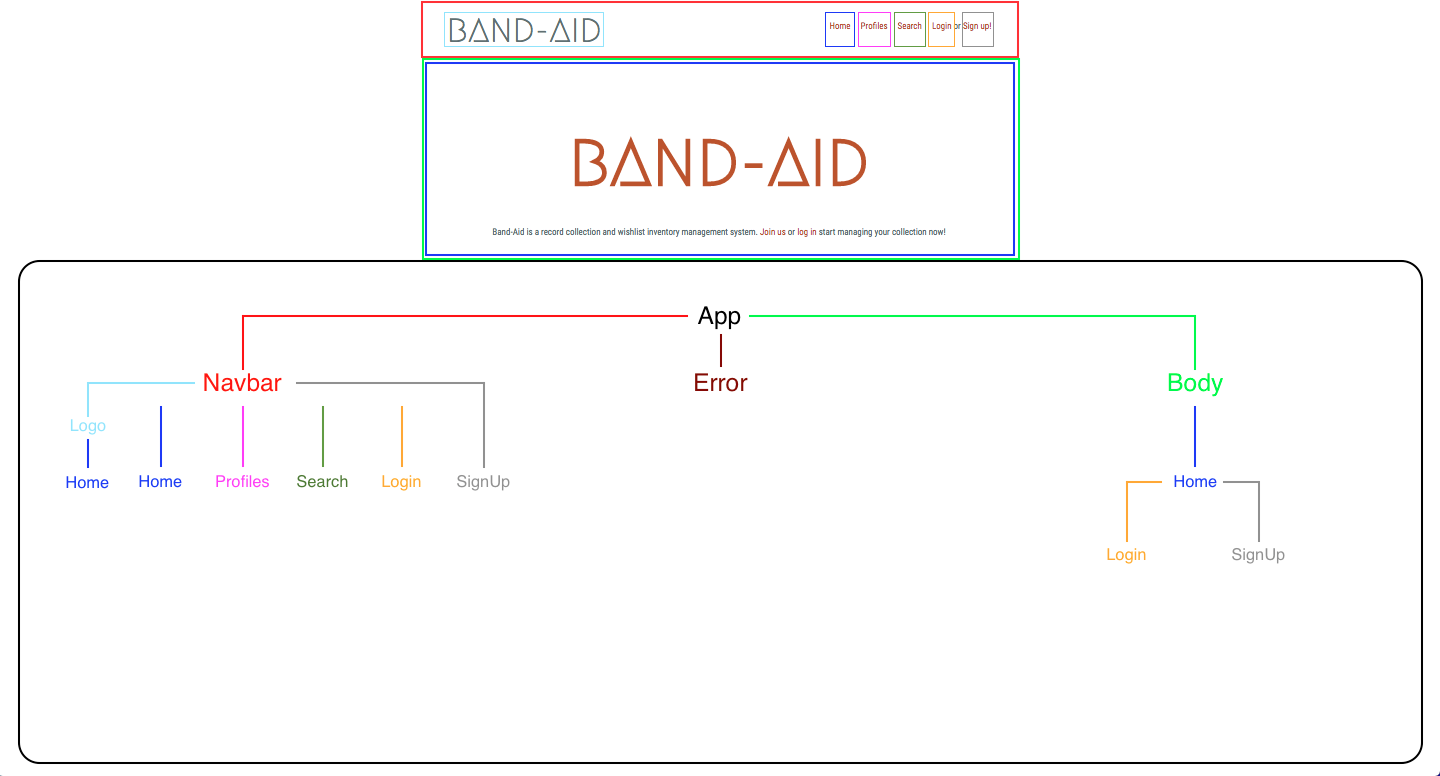
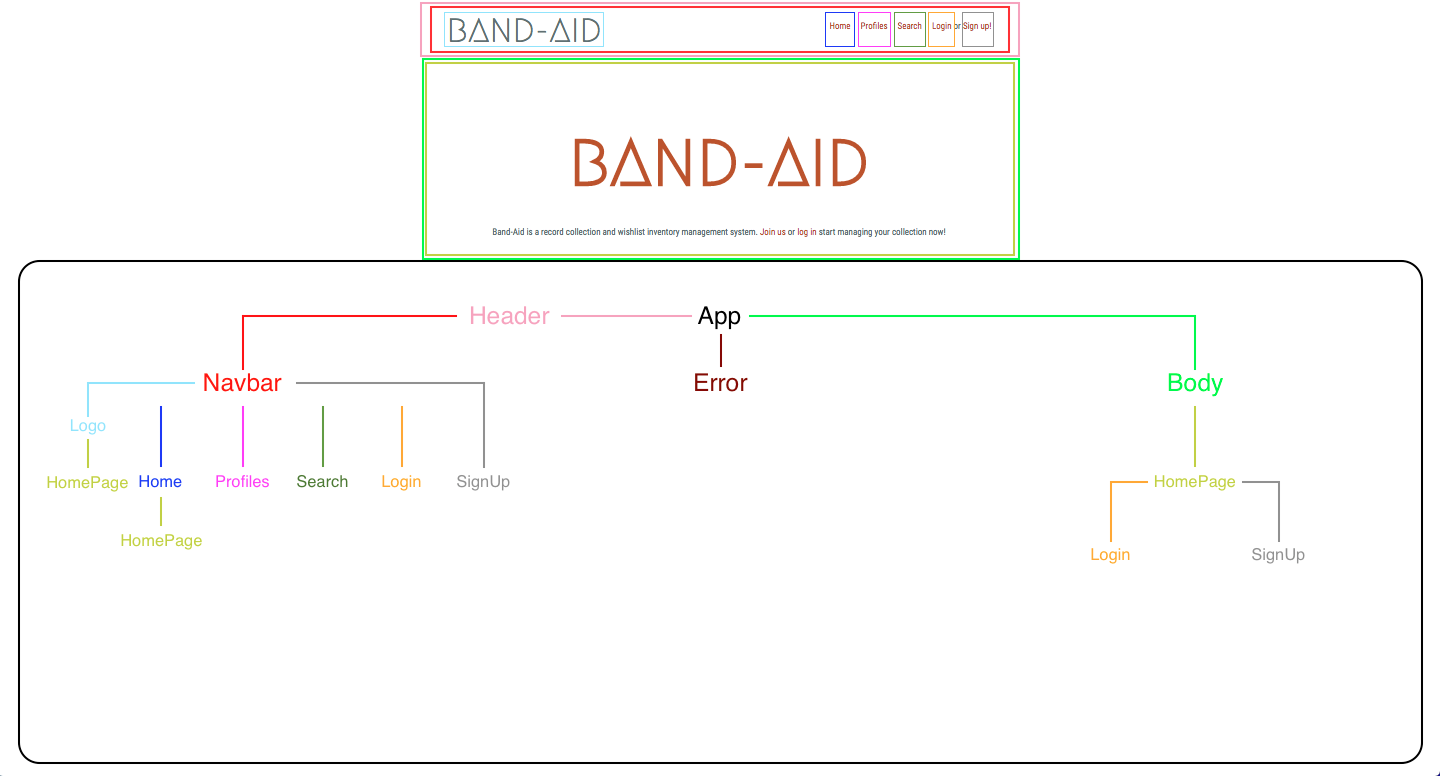
created placeholder component layout for header, navbar, homePage, body, and updated screenshot.png adding HomePage section to tree

diff --git a/src/components/Navbar.jsx b/src/components/Navbar.jsx
@@ -1,0 +1,23 @@
+import React from 'react';
+import Home from './Home';
+import Login from './Login';
+import Logo from './Logo';
+import Profiles from './Profiles';
+import Search from './Search';
+import SignUp from './SignUp';
+
+function Navbar() {
+  return (
+    <div>
+      <Logo />
+      <Home />
+      <Profiles />
+      <Search />
+      <Login />
+      or
+      <SignUp />
+    </div>
+  );
+}
+
+export default Navbar;

diff --git a/src/components/HomePage.jsx b/src/components/HomePage.jsx
@@ -1,0 +1,12 @@
+import React from 'react';
+
+function HomePage() {
+  return(
+    <div>
+      <h1>Band-Aid</h1>
+      <p>Band-Aid is a record collection and wishlist inventory management system. Join us or log in start managing your collection now!</p>
+    </div>
+  );
+}
+
+export default HomePage;

diff --git a/src/components/App.jsx b/src/components/App.jsx
@@ -1,9 +1,12 @@
 import React from 'react';
+import Body from './Body';
+import Header from './Header';
 
 function App() {
   return(
     <div>
-      Band-Aid
+      <Header />
+      <Body />
     </div>
   );
 }

diff --git a/src/components/Body.jsx b/src/components/Body.jsx
@@ -1,0 +1,12 @@
+import React from 'react';
+import HomePage from './HomePage';
+
+function Body() {
+  return (
+    <div>
+      <HomePage />
+    </div>
+  );
+}
+
+export default Body;

diff --git a/src/components/Header.jsx b/src/components/Header.jsx
@@ -1,0 +1,12 @@
+import React from 'react';
+import Navbar from './Navbar';
+
+function Header(){
+  return (
+    <div>
+      <Navbar />
+    </div>
+  );
+}
+
+export default Header;

diff --git a/src/components/Logo.jsx b/src/components/Logo.jsx
@@ -1,0 +1,11 @@
+import React from 'react';
+
+function Logo() {
+  return (
+    <div>
+      <h1>Band-Aid</h1>
+    </div>
+  );
+}
+
+export default Logo;

diff --git a/src/components/Profiles.jsx b/src/components/Profiles.jsx
@@ -1,0 +1,11 @@
+import React from 'react';
+
+function Profiles() {
+  return (
+    <div>
+      Profiles
+    </div>
+  );
+}
+
+export default Profiles;

diff --git a/src/components/SignUp.jsx b/src/components/SignUp.jsx
@@ -1,0 +1,11 @@
+import React from 'react';
+
+function SignUp() {
+  return (
+    <div>
+      Sign Up!
+    </div>
+  );
+}
+
+export default SignUp;

diff --git a/src/components/Search.jsx b/src/components/Search.jsx
@@ -1,0 +1,11 @@
+import React from 'react';
+
+function Search() {
+  return (
+    <div>
+      Search
+    </div>
+  );
+}
+
+export default Search;

diff --git a/src/components/Login.jsx b/src/components/Login.jsx
@@ -1,0 +1,11 @@
+import React from 'react';
+
+function Login() {
+  return (
+    <div>
+      Login
+    </div>
+  );
+}
+
+export default Login; 

diff --git a/src/components/Home.jsx b/src/components/Home.jsx
@@ -1,0 +1,11 @@
+import React from 'react';
+
+function Home() {
+  return (
+    <div>
+      Home
+    </div>
+  );
+}
+
+export default Home;
